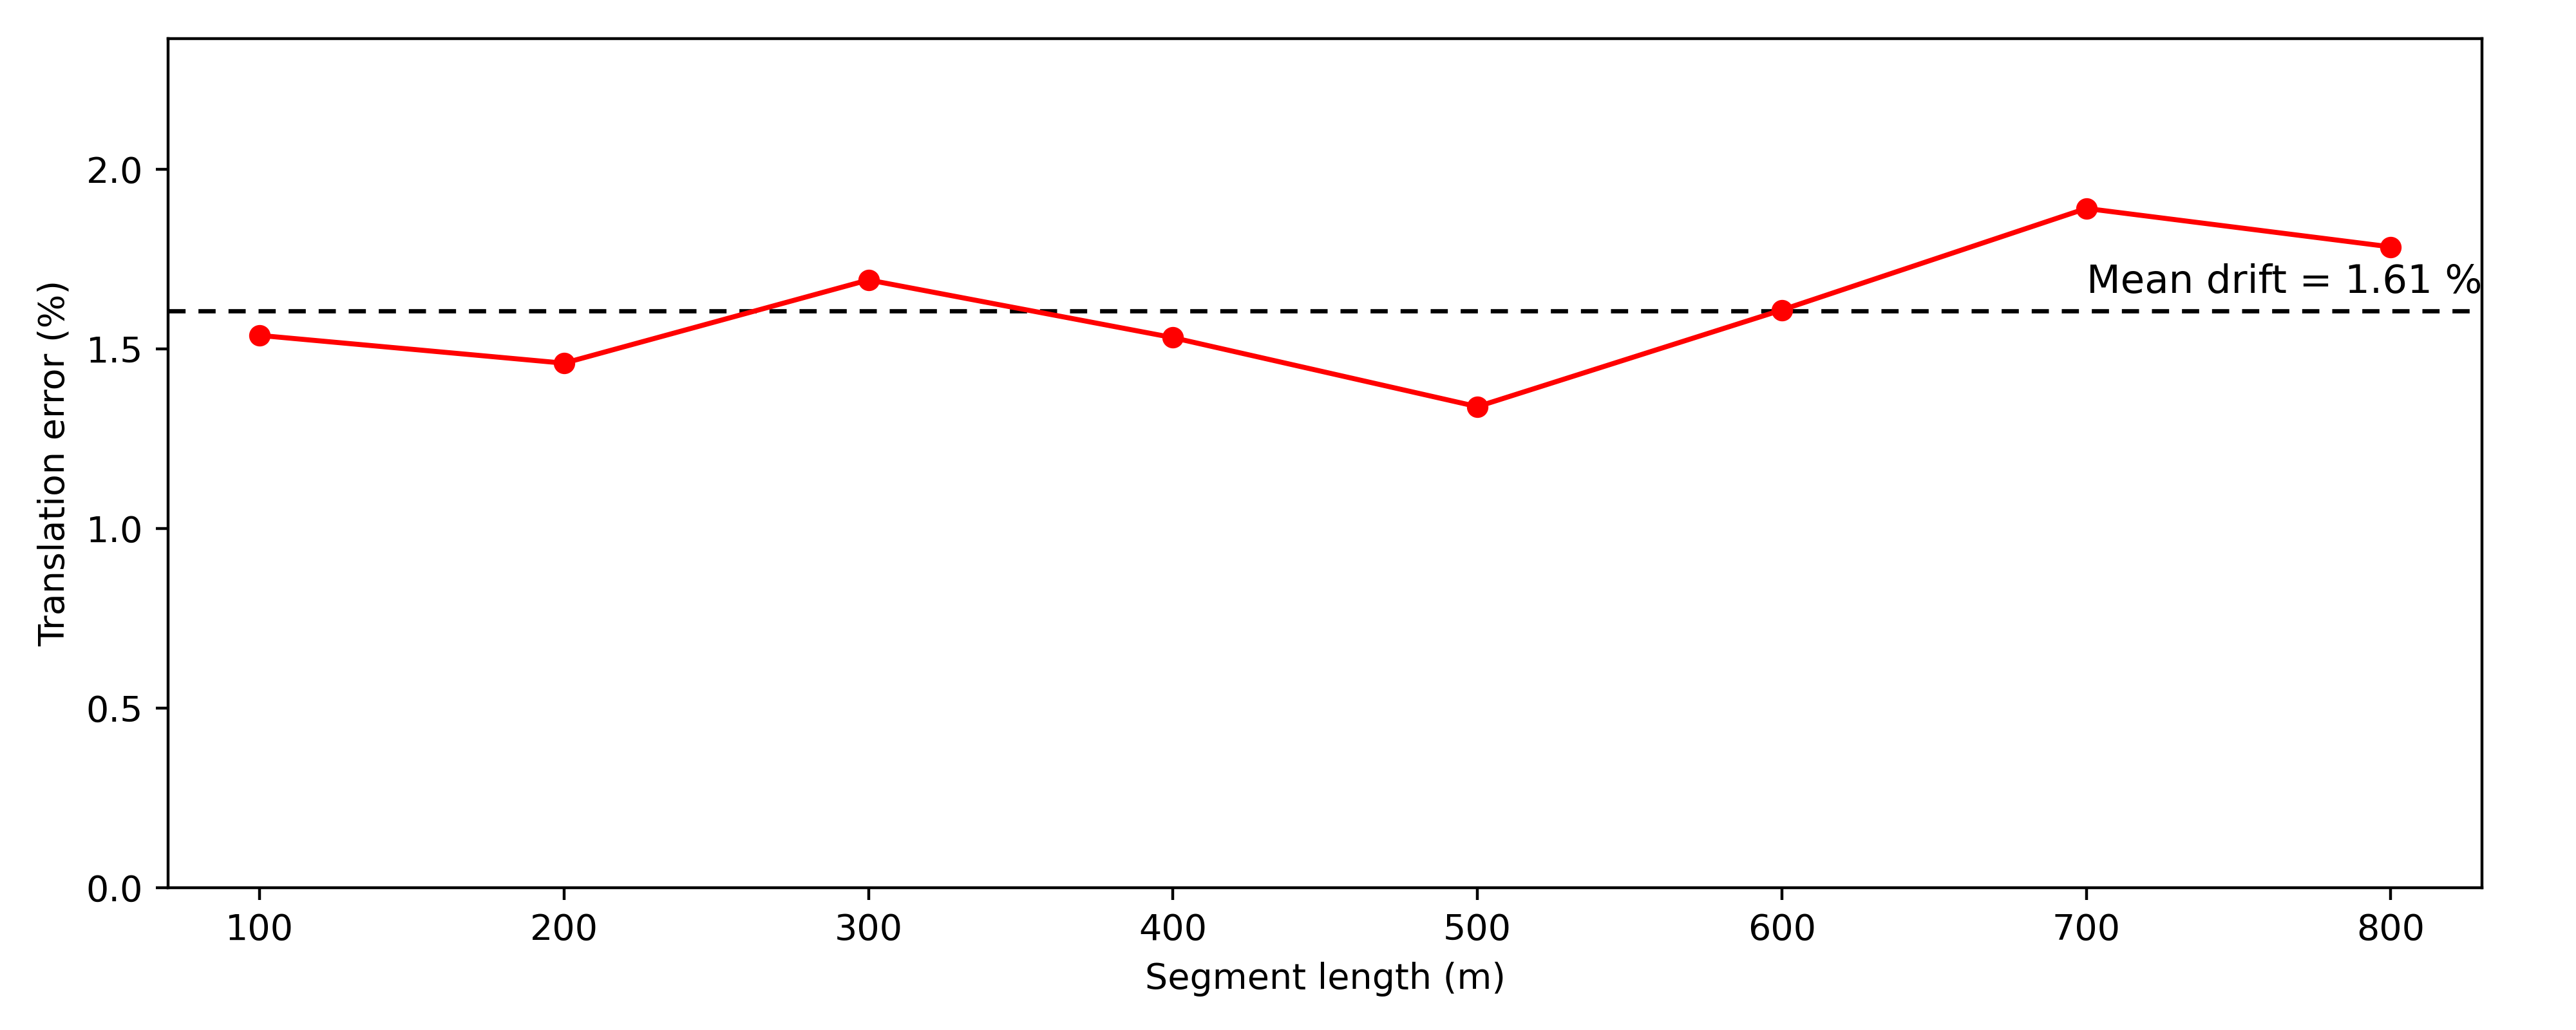
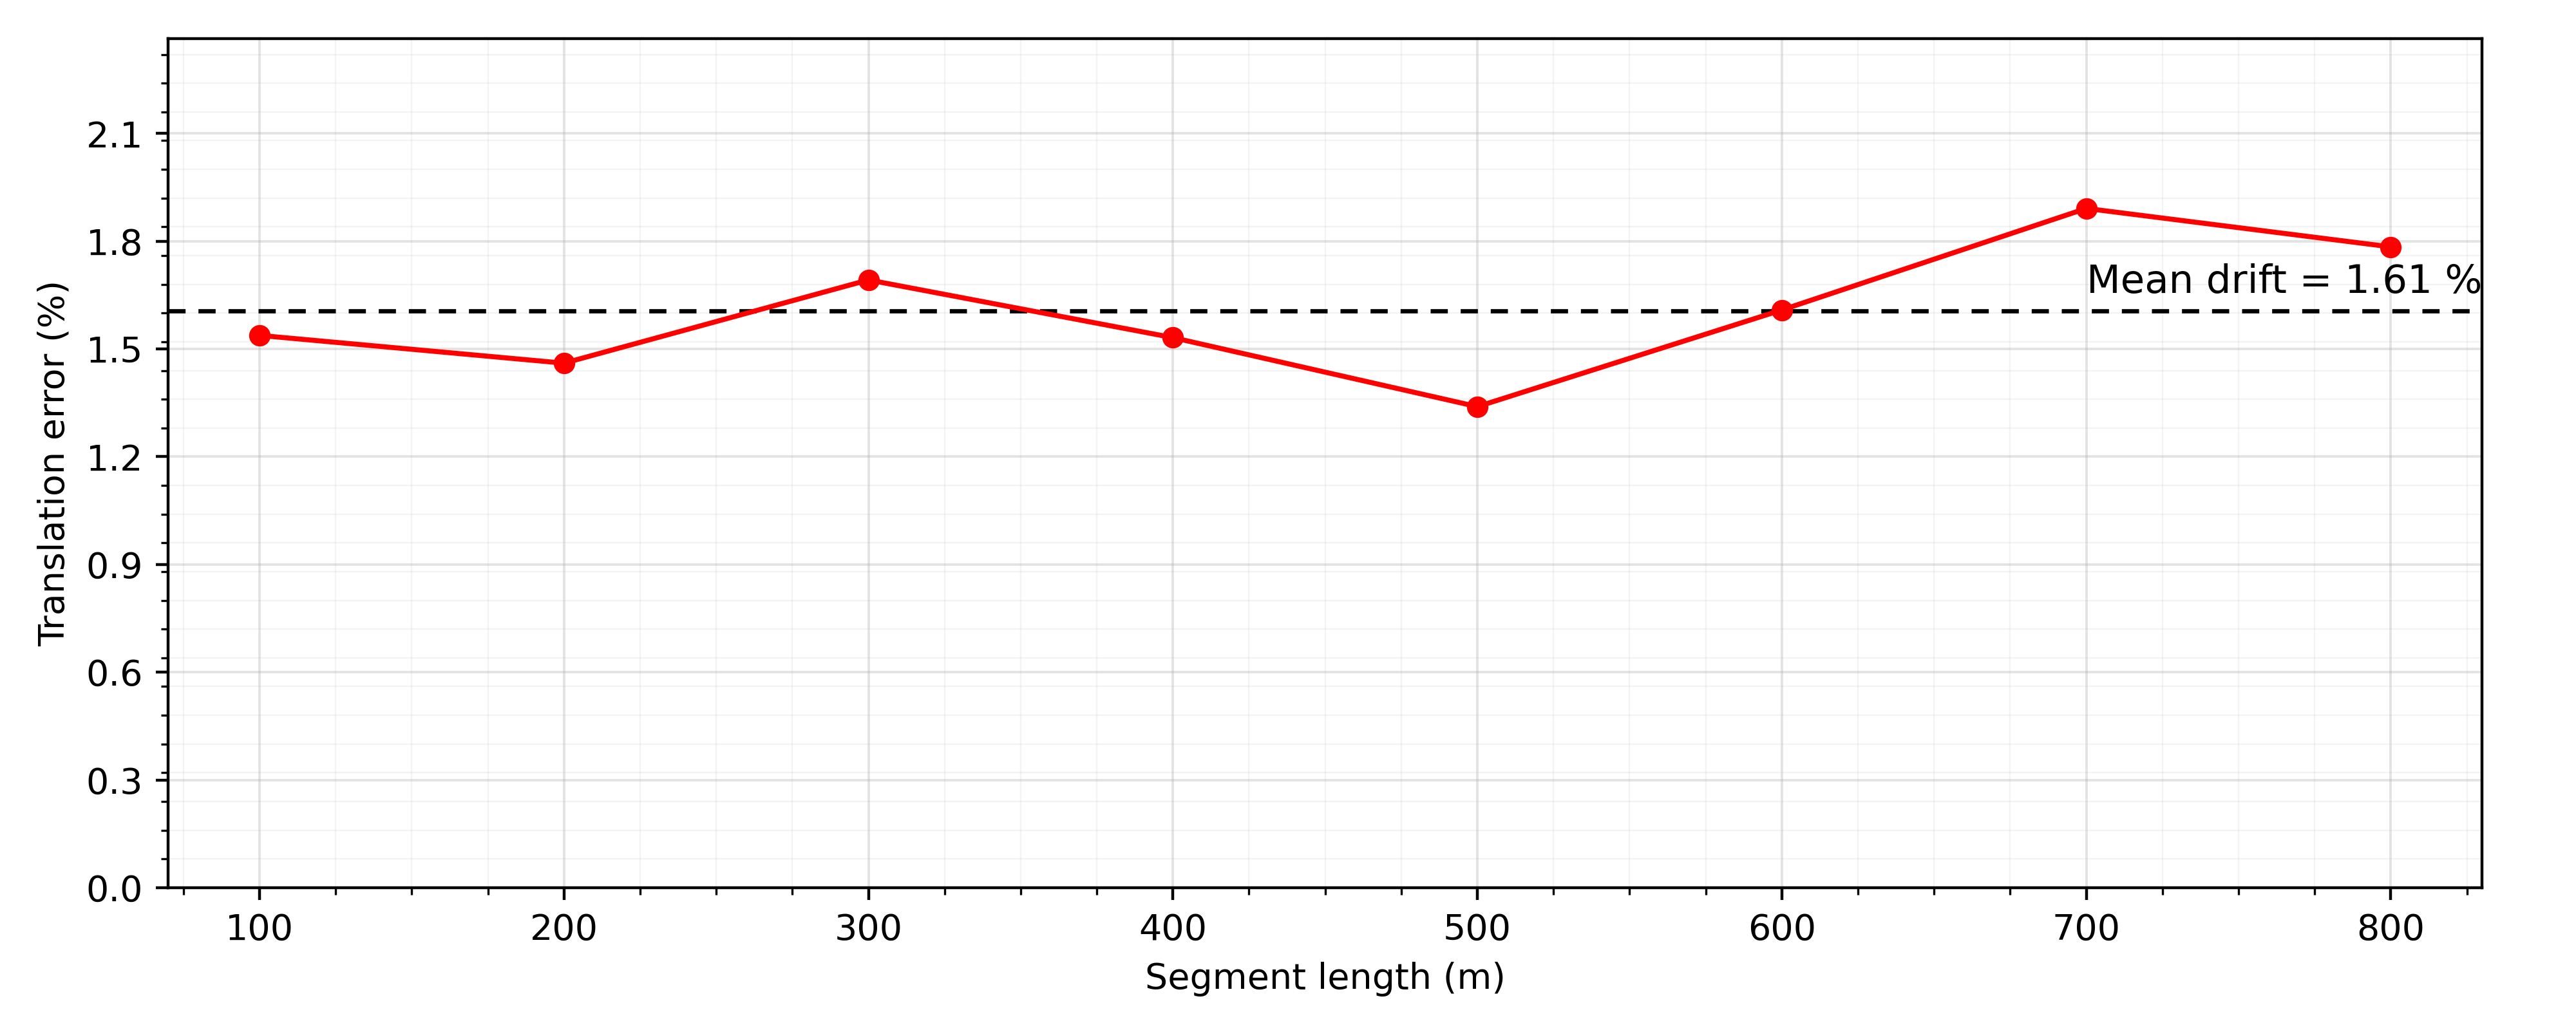
better, timestamp fixed

diff --git a/visualisation_tool/experiment/plot_inference.py b/visualisation_tool/experiment/plot_inference.py
@@ -3,104 +3,174 @@
 Ground truth = ground_truth[:, 0:3] * POS_NORM  (Vicon, normalised in zarr)
 Inferred     = cumulative sum of output[:, 0:3], seeded from ground truth at champion start
 Onboard est  = obs[:, 0:3] * POS_NORM
+estimator_odometry[0/1/2] = PX4 ulog, clock-aligned to zarr via affine fit on Z
 """
 
 import zarr
 import numpy as np
 import matplotlib.pyplot as plt
-from matplotlib.ticker import MultipleLocator, MaxNLocator
+from matplotlib.ticker import MaxNLocator
 from pathlib import Path
+from pyulog import ULog
+from scipy.interpolate import interp1d
+from scipy.optimize import minimize
+from scipy.signal import correlate
 
 # ── Config ─────────────────────────────────────────────────────────────────────
 SESSION_DIR = Path("/home/nodale/Thesis/Thesis-Invizible/data/real_life/2026-07-22_19-32-47")
-POS_NORM    = 3.0   # denormalisation factor for positions and displacements
+ULOG_PATH   = Path("/home/nodale/Thesis/Thesis-Invizible/data/thesis_px4_logs/log_201_2026-7-22-19-37-46.ulg")
+POS_NORM    = 3.0
 # ───────────────────────────────────────────────────────────────────────────────
 
 
-def load(session_dir: Path):
+def load_zarr(session_dir: Path):
     log = zarr.open(session_dir / "infer_log.zarr", mode="r")
     ground_truth  = np.asarray(log["ground_truth"][:])
     output        = np.asarray(log["output"][:])
     obs           = np.asarray(log["obs"][:])
     generation_id = np.asarray(log["generation_id"][:]).reshape(-1)
-
-    # obs/output may have extra leading rows — align to ground_truth
+    t_s           = np.asarray(log["state_arrival_ns"][:]).reshape(-1).astype(np.float64) / 1e9
     n = ground_truth.shape[0]
     obs, output = obs[-n:], output[-n:]
-
     return {
-        "gen_id": generation_id,
-        "truth":  ground_truth[:, 0:3] * POS_NORM,
-        "output": output[:, 0:3],
+        "gen_id":  generation_id,
+        "truth":   ground_truth[:, 0:3] * POS_NORM,
+        "output":  output[:, 0:3],
         "onboard": obs[:, 0:3] * POS_NORM,
+        "t_s":     t_s,
     }
 
 
-def infer_xyz(output_xyz, snap_pos):
-    """Integrate normalised displacements from snap_pos.
-    traj[0] = snap_pos, traj[k] = snap_pos + sum(output[0..k-1]) * POS_NORM.
+def load_odometry(ulog_path: Path, n_instances: int = 3):
+    """Return list of (t_s, xyz) for estimator_odometry instances 0..n-1."""
+    ulog  = ULog(str(ulog_path))
+    by_id = {d.multi_id: d for d in ulog.data_list if d.name == "estimator_odometry"}
+    result = []
+    for i in range(n_instances):
+        if i not in by_id:
+            result.append(None)
+        else:
+            d   = by_id[i]
+            t_s = d.data["timestamp"].astype(np.float64) / 1e6  # µs → s
+            xyz = np.column_stack([d.data[f"position[{j}]"] for j in range(3)])
+            result.append((t_s, xyz))
+    return result
+
+
+def align_clocks(t_zarr_s, z_zarr, odo_list):
+    """Affine-fit the ulog clock to the zarr clock using est_odometry[0] Z,
+    which measures the same quantity as ground-truth Z (Vicon).
+    Returns (offset, scale) such that t_odo_aligned = t_odo * scale + offset.
     """
+    odo0 = odo_list[0]
+    assert odo0 is not None, "est_odometry[0] required for clock alignment"
+    t_odo, xyz_odo = odo0
+    f = interp1d(t_zarr_s, z_zarr, bounds_error=False, fill_value=np.nan)
+
+    # coarse offset via cross-correlation
+    dt = 0.1
+    ta = np.arange(t_zarr_s[0], t_zarr_s[-1], dt)
+    tb = np.arange(t_odo[0], t_odo[-1], dt)
+    lag0 = (np.argmax(correlate(
+        interp1d(t_zarr_s, z_zarr)(ta) - z_zarr.mean(),
+        interp1d(t_odo, xyz_odo[:, 2])(tb) - xyz_odo[:, 2].mean(),
+        mode="full",
+    )) - (len(tb) - 1)) * dt
+
+    def mse(params):
+        off, scale = params
+        t_sh = t_odo * scale + off
+        z_gt = f(t_sh)
+        mask = np.isfinite(z_gt)
+        return np.mean((z_gt[mask] - xyz_odo[mask, 2]) ** 2) if mask.sum() > 5 else 1e9
+
+    res = minimize(mse, x0=[lag0, 1.0], method="Nelder-Mead",
+                   options={"xatol": 1e-4, "fatol": 1e-8, "maxiter": 20000})
+    return res.x  # (offset, scale)
+
+
+def infer_xyz(output_xyz, snap_pos):
     shifts = np.vstack([[0, 0, 0], np.cumsum(output_xyz[:-1] * POS_NORM, axis=0)])
     return snap_pos + shifts
 
 
-#color="black", ms=5, mfc="black", mec="black", zorder=3,
-#color="red", ms=5, mfc="red", mec="red", zorder=3,
-#color="blue", ms=5, mfc="blue", mec="blue", zorder=3,
+def _grid(ax):
+    ax.xaxis.set_major_locator(MaxNLocator(8));  ax.xaxis.set_minor_locator(MaxNLocator(32))
+    ax.yaxis.set_major_locator(MaxNLocator(8));  ax.yaxis.set_minor_locator(MaxNLocator(32))
+    ax.grid(which="major", alpha=0.35, linewidth=0.7)
+    ax.grid(which="minor", alpha=0.15, linewidth=0.4)
 
 
-def plot_champion(axes, output_xyz, truth_xyz, onboard_xyz, champion_id):
+ODO_COLORS = ["tab:green", "tab:orange", "tab:purple"]
+
+
+def plot_champion(axes, output_xyz, truth_xyz, onboard_xyz, t_s, odo_list, champion_id, t0_s):
     ax_xy, ax_z = axes
     inferred = infer_xyz(output_xyz, truth_xyz[0])
-    t = np.arange(len(inferred))
+    tc = t_s - t0_s  # seconds from session start
 
-    for ax, xi, yi, zlabel in [(ax_xy, 0, 1, None), (ax_z, None, None, "z")]:
-        if zlabel is None:
-            ax.plot(inferred[:, xi],  inferred[:, yi],  lw=1.4, label="inferred", color="red", ms=5, mfc="red", mec="red", zorder=3,)
-            ax.plot(truth_xyz[:, xi], truth_xyz[:, yi], lw=1.4, ls="solid", label="ground truth (vicon)", color="black", ms=5, mfc="black", mec="black", zorder=3,)
-            ax.plot(onboard_xyz[:, xi], onboard_xyz[:, yi], lw=1.4, ls=":", alpha=0.7, label="onboard est", color="blue", ms=5, mfc="blue", mec="blue", zorder=3,)
-        else:
-            ax.plot(t, inferred[:, 2],   lw=1.4, label="inferred", color="red", ms=5, mfc="red", mec="red", zorder=3,)
-            ax.plot(t, truth_xyz[:, 2],  lw=1.4, ls="solid", label="ground truth (vicon)", color="black", ms=5, mfc="black", mec="black", zorder=3,)
-            ax.plot(t, onboard_xyz[:, 2], lw=1.4, ls=":", alpha=0.7, label="onboard est", color="blue", ms=5, mfc="blue", mec="blue", zorder=3,)
+    def _plot_zarr(xyz, **kw):
+        ax_xy.plot(xyz[:, 0], xyz[:, 1], lw=1.4, **kw)
+        ax_z.plot(tc, xyz[:, 2], lw=1.4, **kw)
+
+    _plot_zarr(inferred,    color="red",   label="inferred")
+    _plot_zarr(truth_xyz,   color="black", label="ground truth (vicon)")
+    _plot_zarr(onboard_xyz, color="blue",  ls=":", alpha=0.7, label="onboard est")
+
+    for i, odo in enumerate(odo_list):
+        if odo is None:
+            continue
+        t_odo_s, xyz_odo = odo
+        t_odo_c = t_odo_s - t0_s
+        mask = (t_odo_c >= tc[0]) & (t_odo_c <= tc[-1])
+        if mask.sum() == 0:
+            continue
+        ax_xy.plot(xyz_odo[mask, 0], xyz_odo[mask, 1], lw=1.4,
+                   color=ODO_COLORS[i], ls="--", alpha=0.7, label=f"est_odometry[{i}]")
+        ax_z.plot(t_odo_c[mask], xyz_odo[mask, 2], lw=1.4,
+                  color=ODO_COLORS[i], ls="--", alpha=0.7, label=f"est_odometry[{i}]")
 
     ax_xy.set_title(f"Champion {champion_id} — XY")
     ax_xy.set_xlabel("x (m)"); ax_xy.set_ylabel("y (m)")
-    ax_xy.legend(fontsize=7); ax_xy.set_aspect("equal", adjustable="datalim")
-    ax_xy.grid(True, alpha=0.1)
+    ax_xy.legend(fontsize=7); 
+    #ax_xy.set_aspect("equal", adjustable="datalim")
+    _grid(ax_xy)
+    ax_xy.set_xlim(-2.0, 2.0)
+    ax_xy.set_ylim(-2.0, 2.0)
 
-    ax_xy.xaxis.set_major_locator(MaxNLocator(8))
-    ax_xy.yaxis.set_major_locator(MaxNLocator(8))
-    ax_xy.xaxis.set_minor_locator(MaxNLocator(32))
-    ax_xy.yaxis.set_minor_locator(MaxNLocator(32))
-    ax_xy.grid(which="major", alpha=0.35, linewidth=0.7)
-    ax_xy.grid(which="minor", alpha=0.15, linewidth=0.4)
 
     ax_z.set_title(f"Champion {champion_id} — Z")
-    ax_z.set_xlabel("Trajectory Index")
-    ax_z.set_ylabel("z (m)")
+    ax_z.set_xlabel("time (s)"); ax_z.set_ylabel("z (m)")
     ax_z.legend(fontsize=7)
-
-    ax_z.xaxis.set_major_locator(MaxNLocator(8))
-    ax_z.yaxis.set_major_locator(MaxNLocator(8))
-    ax_z.xaxis.set_minor_locator(MaxNLocator(32))
-    ax_z.yaxis.set_minor_locator(MaxNLocator(32))
-    ax_z.grid(which="major", alpha=0.35, linewidth=0.7)
-    ax_z.grid(which="minor", alpha=0.15, linewidth=0.4)
+    _grid(ax_z)
 
 
 def main():
-    d = load(SESSION_DIR)
-    champions = np.unique(d["gen_id"])
+    d        = load_zarr(SESSION_DIR)
+    odo_list = load_odometry(ULOG_PATH)
 
+    print("Aligning clocks via Z cross-correlation + affine fit...")
+    offset, scale = align_clocks(d["t_s"], d["truth"][:, 2], odo_list)
+    print(f"  offset={offset:.4f} s, scale={scale:.7f}")
+
+    odo_aligned = []
+    for odo in odo_list:
+        if odo is None:
+            odo_aligned.append(None)
+        else:
+            t_odo, xyz_odo = odo
+            odo_aligned.append((t_odo * scale + offset, xyz_odo))
+
+    t0_s    = d["t_s"].min()
     out_dir = SESSION_DIR / "plots"
     out_dir.mkdir(exist_ok=True)
 
-    for cid in champions:
+    for cid in np.unique(d["gen_id"]):
         mask = d["gen_id"] == cid
         fig, axes = plt.subplots(1, 2, figsize=(14, 4))
         fig.suptitle(f"Champion {cid} — {SESSION_DIR.name}", fontsize=11)
-        plot_champion(axes, d["output"][mask], d["truth"][mask], d["onboard"][mask], cid)
+        plot_champion(axes, d["output"][mask], d["truth"][mask], d["onboard"][mask],
+                      d["t_s"][mask], odo_aligned, cid, t0_s)
         plt.tight_layout()
         fig.savefig(out_dir / f"champion_{cid:02d}.png", dpi=150)
         plt.close(fig)

diff --git a/visualisation_tool/metrics/ATE/visualise_ate.py b/visualisation_tool/metrics/ATE/visualise_ate.py
@@ -4,6 +4,7 @@ Absolute Trajectory Error (ATE) visualisation.
 
 import numpy as np
 import matplotlib.pyplot as plt
+from matplotlib.ticker import MultipleLocator, MaxNLocator
 
 rng = np.random.default_rng(400)
 
@@ -86,6 +87,14 @@ ax.set_ylabel("y (m)")
 #ax.legend(fontsize=8)
 #ax.grid(True, alpha=0.3)
 #ax.set_axis_off()
+ax.xaxis.set_major_locator(MaxNLocator(8))
+ax.yaxis.set_major_locator(MaxNLocator(8))
+ax.xaxis.set_minor_locator(MaxNLocator(32))
+ax.yaxis.set_minor_locator(MaxNLocator(32))
+ax.grid(which="major", alpha=0.35, linewidth=0.7)
+ax.grid(which="minor", alpha=0.15, linewidth=0.4)
+
+
 
 ax = axes[1]
 frames = np.arange(len(errors))
@@ -118,6 +127,13 @@ ax.set_ylabel("ATE per frame (m)")
 #ax.legend(fontsize=8)
 #ax.grid(True, alpha=0.3)
 #ax.set_axis_off()
+ax.xaxis.set_major_locator(MaxNLocator(8))
+ax.yaxis.set_major_locator(MaxNLocator(8))
+ax.xaxis.set_minor_locator(MaxNLocator(32))
+ax.yaxis.set_minor_locator(MaxNLocator(32))
+ax.grid(which="major", alpha=0.35, linewidth=0.7)
+ax.grid(which="minor", alpha=0.15, linewidth=0.4)
+
 
 plt.tight_layout()
 plt.savefig("ate_visualisation.png", dpi=200)

diff --git a/visualisation_tool/metrics/endpoint_error/visualise_endpoint_error.py b/visualisation_tool/metrics/endpoint_error/visualise_endpoint_error.py
@@ -4,6 +4,8 @@ Endpoint Error visualisation.
 
 import numpy as np
 import matplotlib.pyplot as plt
+from matplotlib.ticker import MultipleLocator, MaxNLocator
+
 
 rng = np.random.default_rng(7)
 
@@ -113,6 +115,13 @@ ax.set_ylabel("y (m)")
 #ax.legend(fontsize=8)
 #ax.grid(True, alpha=0.3)
 #ax.set_axis_off()
+ax.xaxis.set_major_locator(MaxNLocator(8))
+ax.yaxis.set_major_locator(MaxNLocator(8))
+ax.xaxis.set_minor_locator(MaxNLocator(32))
+ax.yaxis.set_minor_locator(MaxNLocator(32))
+ax.grid(which="major", alpha=0.35, linewidth=0.7)
+ax.grid(which="minor", alpha=0.15, linewidth=0.4)
+
 
 
 plt.tight_layout()

diff --git a/visualisation_tool/metrics/KITTI/visualise_kitti.py b/visualisation_tool/metrics/KITTI/visualise_kitti.py
@@ -4,6 +4,7 @@ KITTI Odometry Translation Drift visualisation.
 
 import numpy as np
 import matplotlib.pyplot as plt
+from matplotlib.ticker import MultipleLocator, MaxNLocator
 
 rng = np.random.default_rng(0)
 
@@ -80,6 +81,12 @@ ax.set_xlabel("Segment length (m)")
 ax.set_ylabel("Translation error (%)")
 #ax.grid(True, alpha=0.3)
 #ax.set_axis_off()
+ax.xaxis.set_major_locator(MaxNLocator(8))
+ax.yaxis.set_major_locator(MaxNLocator(8))
+ax.xaxis.set_minor_locator(MaxNLocator(32))
+ax.yaxis.set_minor_locator(MaxNLocator(32))
+ax.grid(which="major", alpha=0.35, linewidth=0.7)
+ax.grid(which="minor", alpha=0.15, linewidth=0.4)
 
 
 plt.tight_layout()